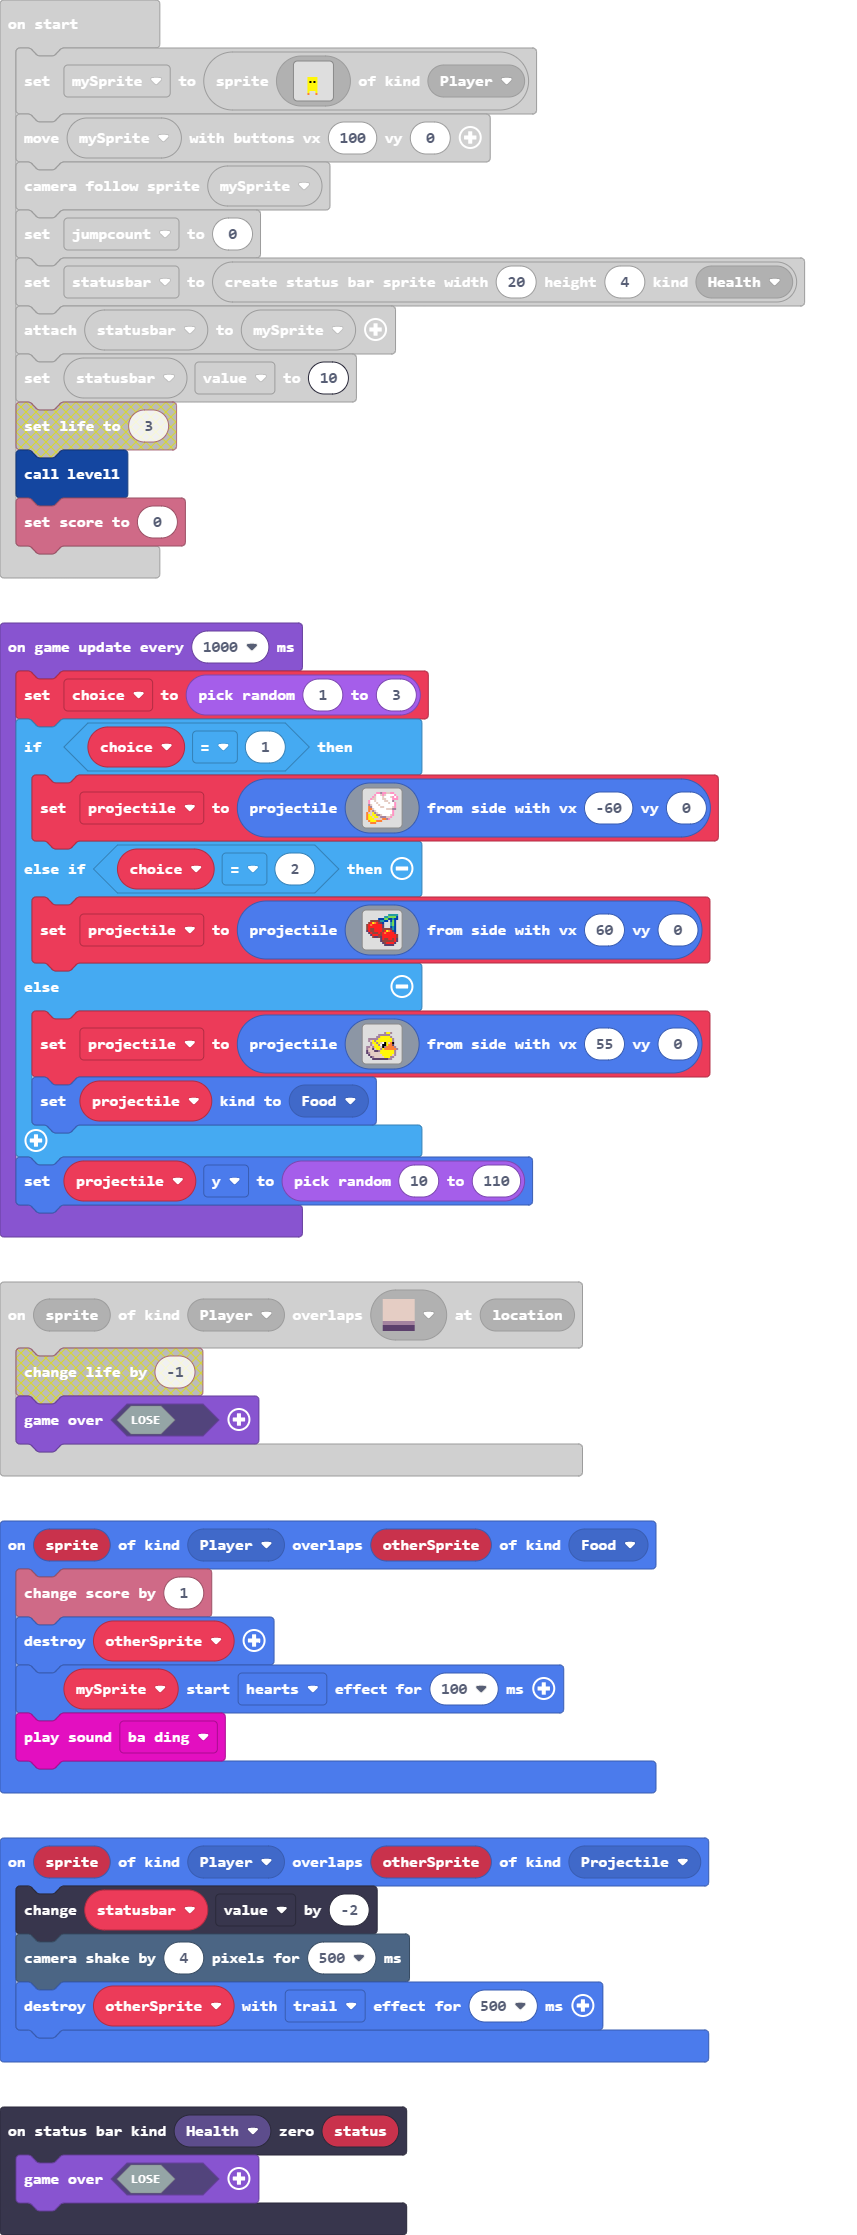
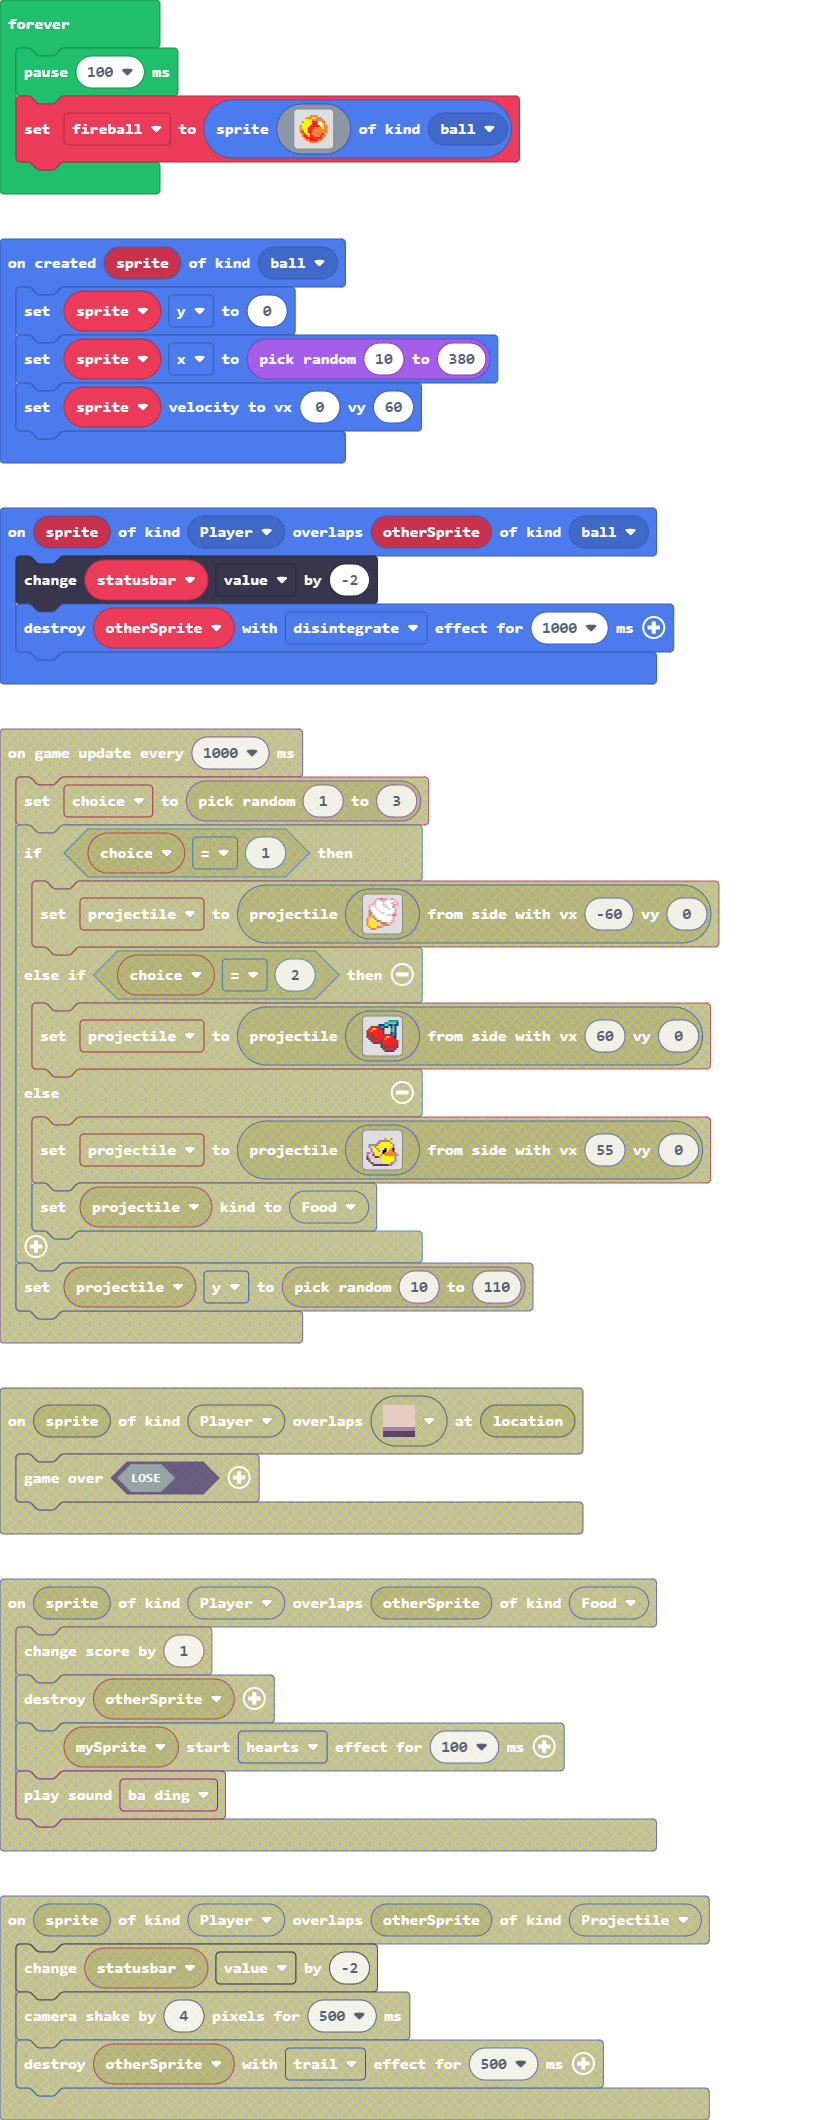
projectiles

diff --git a/tilemap.g.ts b/tilemap.g.ts
@@ -64,6 +64,10 @@ namespace myTiles {
     export const tile30 = image.ofBuffer(hex``);
     //% fixedInstance jres blockIdentity=images._tile
     export const tile31 = image.ofBuffer(hex``);
+    //% fixedInstance jres blockIdentity=images._tile
+    export const tile29 = image.ofBuffer(hex``);
+    //% fixedInstance jres blockIdentity=images._tile
+    export const tile33 = image.ofBuffer(hex``);
 
     helpers._registerFactory("tilemap", function(name: string) {
         switch(helpers.stringTrim(name)) {
@@ -111,7 +115,7 @@ namespace myTiles {
 .....2...2...2...2...2222
 `, [myTiles.transparency16,myTiles.tile13,myTiles.tile14,myTiles.tile15,myTiles.tile17,myTiles.tile18,myTiles.tile19,myTiles.tile20,myTiles.tile21,myTiles.tile22,myTiles.tile24,myTiles.tile26,myTiles.tile27,myTiles.tile28,myTiles.tile31,myTiles.tile32,myTiles.tile30], TileScale.Sixteen);
             case "level2":
[2 lines of base64/hex data omitted]
 ...........................................................................
 ...........................................................................
 ...........................................................................
@@ -132,7 +136,7 @@ namespace myTiles {
 ...........................................................................
 ...........................................................................
 ...........................................................................
-`, [myTiles.transparency16,myTiles.tile14,myTiles.tile15,myTiles.tile17,myTiles.tile18,myTiles.tile19,myTiles.tile20,myTiles.tile21,myTiles.tile22,myTiles.tile16,myTiles.tile13,myTiles.tile24,myTiles.tile26,sprites.builtin.forestTiles3,sprites.builtin.forestTiles6,sprites.builtin.forestTiles7,sprites.builtin.forestTiles5,sprites.builtin.forestTiles10,sprites.builtin.forestTiles11], TileScale.Sixteen);
+`, [myTiles.transparency16,myTiles.tile14,myTiles.tile15,myTiles.tile17,myTiles.tile18,myTiles.tile19,myTiles.tile20,myTiles.tile21,myTiles.tile16,myTiles.tile26,sprites.builtin.forestTiles10,myTiles.tile27,myTiles.tile28,myTiles.tile29,myTiles.tile33], TileScale.Sixteen);
         }
         return null;
     })
@@ -202,6 +206,10 @@ namespace myTiles {
             case "tile30":return tile30;
             case "myTile29":
             case "tile31":return tile31;
+            case "myTile27":
+            case "tile29":return tile29;
+            case "myTile31":
+            case "tile33":return tile33;
         }
         return null;
     })

diff --git a/main.ts b/main.ts
@@ -1,5 +1,6 @@
 namespace SpriteKind {
     export const trampoline = SpriteKind.create()
+    export const ball = SpriteKind.create()
 }
 scene.onHitWall(SpriteKind.Player, function (sprite, location) {
     jumpcount = 0
@@ -8,9 +9,6 @@ function level1 () {
     tiles.setTilemap(tilemap`level1`)
     tiles.placeOnTile(mySprite, tiles.getTileLocation(22, 38))
 }
-scene.onOverlapTile(SpriteKind.Player, assets.tile`myTile13`, function (sprite, location) {
-    game.over(false)
-})
 controller.A.onEvent(ControllerButtonEvent.Pressed, function () {
     if (jumpcount < 1) {
         mySprite.vy = -100
@@ -23,22 +21,19 @@ function level2 () {
 statusbars.onZero(StatusBarKind.Health, function (status) {
     game.over(false)
 })
-sprites.onOverlap(SpriteKind.Player, SpriteKind.Projectile, function (sprite, otherSprite) {
-    statusbar.value += -2
-    scene.cameraShake(4, 500)
-    otherSprite.destroy(effects.trail, 500)
+sprites.onCreated(SpriteKind.ball, function (sprite) {
+    sprite.y = 0
+    sprite.x = randint(10, 380)
+    sprite.setVelocity(0, 60)
 })
-sprites.onOverlap(SpriteKind.Player, SpriteKind.Food, function (sprite, otherSprite) {
-    info.changeScoreBy(1)
-    otherSprite.destroy()
-    mySprite.startEffect(effects.hearts, 100)
-    music.baDing.play()
+sprites.onOverlap(SpriteKind.Player, SpriteKind.ball, function (sprite, otherSprite) {
+    statusbar.value += -2
+    otherSprite.destroy(effects.disintegrate, 1000)
 })
 scene.onOverlapTile(SpriteKind.Player, assets.tile`myTile28`, function (sprite, location) {
     level2()
 })
-let projectile: Sprite = null
-let choice = 0
+let fireball: Sprite = null
 let statusbar: StatusBarSprite = null
 let jumpcount = 0
 let mySprite: Sprite = null
@@ -68,68 +63,26 @@ statusbar.attachToSprite(mySprite)
 statusbar.value = 10
 info.setScore(0)
 level1()
-game.onUpdateInterval(1000, function () {
-    choice = randint(1, 3)
-    if (choice == 1) {
-        projectile = sprites.createProjectileFromSide(img`
-            . . . . . 3 3 b 3 3 d d 3 3 . . 
-            . . . . 3 1 1 d 3 d 1 1 1 1 3 . 
-            . . . 3 d 1 1 1 d 1 1 1 d 3 1 3 
-            . . 3 d d 1 1 1 d d 1 1 1 3 3 3 
-            . 3 1 1 d 1 1 1 1 d d 1 1 b . . 
-            . 3 1 1 1 d 1 1 1 1 1 d 1 1 3 . 
-            . b d 1 1 1 d 1 1 1 1 1 1 1 3 . 
-            . 4 b 1 1 1 1 d d 1 1 1 1 d 3 . 
-            . 4 4 d 1 1 1 1 1 1 d d d b b . 
-            . 4 d b d 1 1 1 1 1 1 1 1 3 . . 
-            4 d d 5 b d 1 1 1 1 1 1 1 3 . . 
-            4 5 d 5 5 b b d 1 1 1 1 d 3 . . 
-            4 5 5 d 5 5 d b b b d d 3 . . . 
-            4 5 5 5 d d d d 4 4 b 3 . . . . 
-            . 4 5 5 5 4 4 4 . . . . . . . . 
-            . . 4 4 4 . . . . . . . . . . . 
-            `, -60, 0)
-    } else if (choice == 2) {
-        projectile = sprites.createProjectileFromSide(img`
-            . . . . . . . . . . . 6 6 6 6 6 
-            . . . . . . . . . 6 6 7 7 7 7 8 
-            . . . . . . 8 8 8 7 7 8 8 6 8 8 
-            . . e e e e c 6 6 8 8 . 8 7 8 . 
-            . e 2 5 4 2 e c 8 . . . 6 7 8 . 
-            e 2 4 2 2 2 2 2 c . . . 6 7 8 . 
-            e 2 2 2 2 2 2 2 c . . . 8 6 8 . 
-            e 2 e e 2 2 2 2 e e e e c 6 8 . 
-            c 2 e e 2 2 2 2 e 2 5 4 2 c 8 . 
-            . c 2 e e e 2 e 2 4 2 2 2 2 c . 
-            . . c 2 2 2 e e 2 2 2 2 2 2 2 e 
-            . . . e c c e c 2 2 2 2 2 2 2 e 
-            . . . . . . . c 2 e e 2 2 e 2 c 
-            . . . . . . . c e e e e e e 2 c 
-            . . . . . . . . c e 2 2 2 2 c . 
-            . . . . . . . . . c c c c c . . 
-            `, 60, 0)
-    } else {
-        projectile = sprites.createProjectileFromSide(img`
-            . . . . . . . . . . . . . . . . 
-            . . . . . . . . . . . . . . . . 
-            . . . . . . . . . b 5 5 b . . . 
-            . . . . . . b b b b b b . . . . 
-            . . . . . b b 5 5 5 5 5 b . . . 
-            . b b b b b 5 5 5 5 5 5 5 b . . 
-            . b d 5 b 5 5 5 5 5 5 5 5 b . . 
-            . . b 5 5 b 5 d 1 f 5 d 4 f . . 
-            . . b d 5 5 b 1 f f 5 4 4 c . . 
-            b b d b 5 5 5 d f b 4 4 4 4 b . 
-            b d d c d 5 5 b 5 4 4 4 4 4 4 b 
-            c d d d c c b 5 5 5 5 5 5 5 b . 
-            c b d d d d d 5 5 5 5 5 5 5 b . 
-            . c d d d d d d 5 5 5 5 5 d b . 
-            . . c b d d d d d 5 5 5 b b . . 
-            . . . c c c c c c c c b b . . . 
-            `, 55, 0)
-        projectile.setKind(SpriteKind.Food)
-    }
-    projectile.y = randint(10, 110)
+forever(function () {
+    pause(100)
+    fireball = sprites.create(img`
+        . . . . . . . . . . . . . . . . 
+        . . . . . . 4 4 4 4 . . . . . . 
+        . . . . 4 4 4 5 5 4 4 4 . . . . 
+        . . . 5 5 5 5 4 4 4 4 4 4 . . . 
+        . . 4 5 5 5 5 2 2 2 1 1 4 4 . . 
+        . . 5 5 5 5 5 2 2 2 1 1 5 4 . . 
+        . 4 5 5 5 5 2 2 2 2 2 5 5 4 4 . 
+        . 4 5 5 5 2 2 2 4 4 4 4 5 4 4 . 
+        . 4 4 5 5 2 2 4 4 4 4 4 4 4 4 . 
+        . 4 2 5 5 2 2 4 4 4 4 4 4 4 4 . 
+        . . 4 2 5 5 2 4 4 4 4 4 2 4 . . 
+        . . 4 2 2 5 2 2 4 4 4 2 4 4 . . 
+        . . . 4 2 2 2 2 2 2 2 2 4 . . . 
+        . . . . 4 4 2 2 2 2 4 4 . . . . 
+        . . . . . . 4 4 4 4 . . . . . . 
+        . . . . . . . . . . . . . . . . 
+        `, SpriteKind.ball)
 })
 forever(function () {
     mySprite.ay = 200
